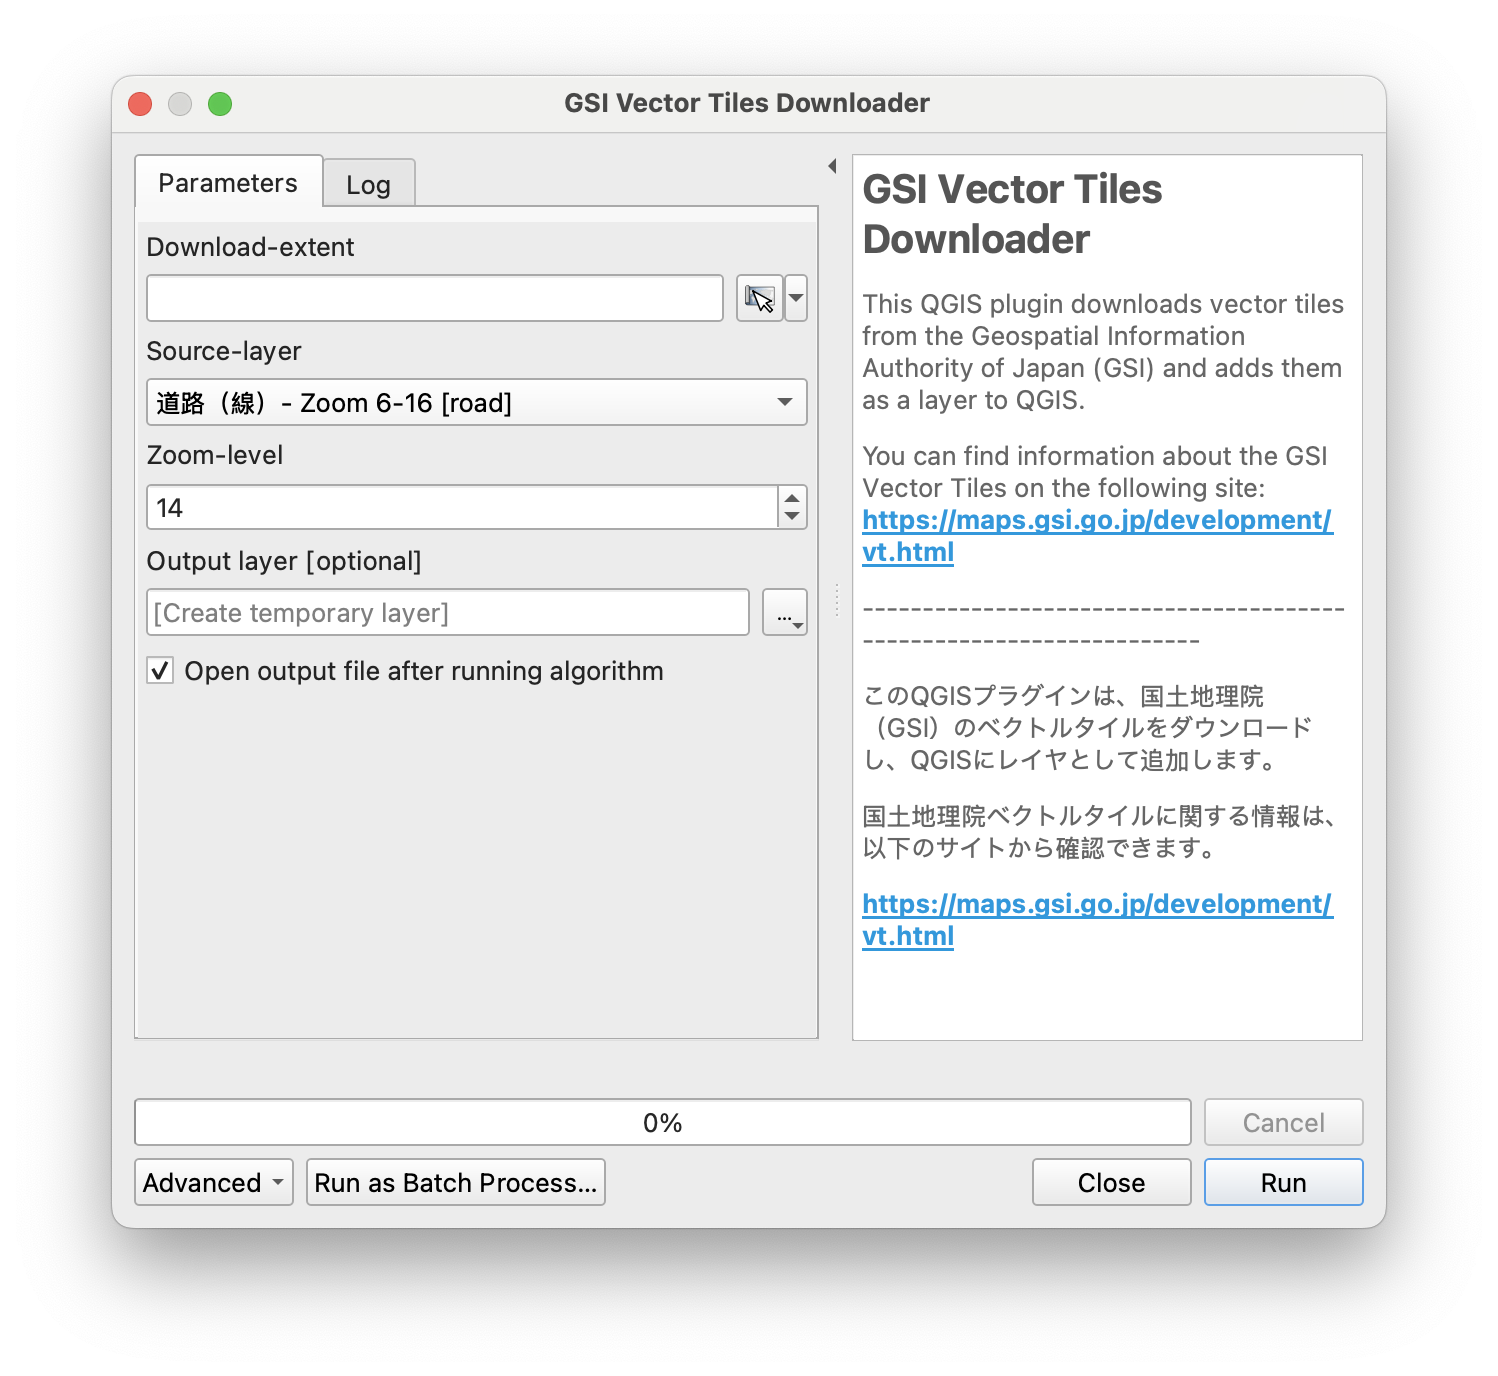
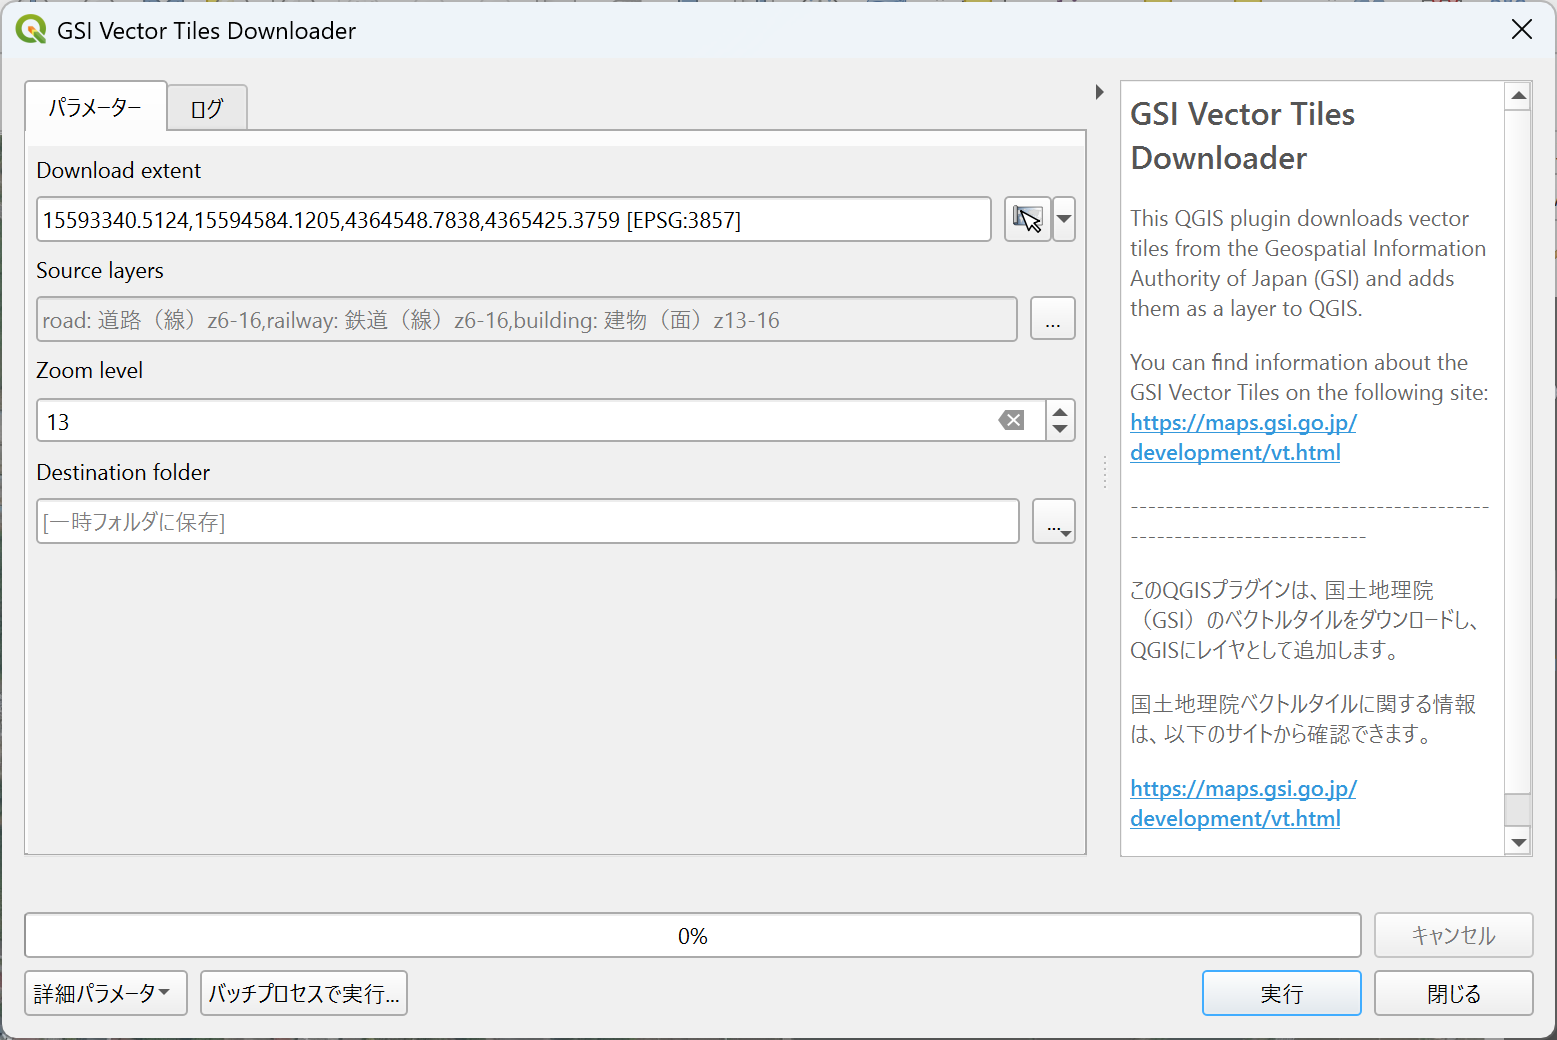
Readme

diff --git a/README.md b/README.md
@@ -18,10 +18,10 @@
 - You can also find it in the Processing Toolbox -> GSI vector tiles downloader.
 - Set the following parameters:
 
-  - (1) Download-extent (By clicking the cursor icon on the right, the current map canvas extent will be selected)
-  - (2) Source-Layer
-  - (3) Zoom-level
-  - (4) Output-layer
+  - (1) Download extent (By clicking the cursor icon on the right, the current map canvas extent will be selected)
+  - (2) Source Layers
+  - (3) Zoom level
+  - (4) Output folder (if not specified, output will be loaded as temporary layers)
 
 - Click Run.
 
@@ -46,8 +46,11 @@
     - 右側のカーソルアイコンをクリックすると、現在のマップキャンバスの範囲が選択されます。
 
   - (2) ソースレイヤ
+    - [...]ボタンをクリックし、対象項目を選択
+ 
   - (3) ズームレベル
-  - (4) 出力レイヤ（オプション）
+  - (4) 出力フォルダ
+    - 指定しない場合、一次レイヤとして出力
 
 - ［実行］をクリックします。
 
